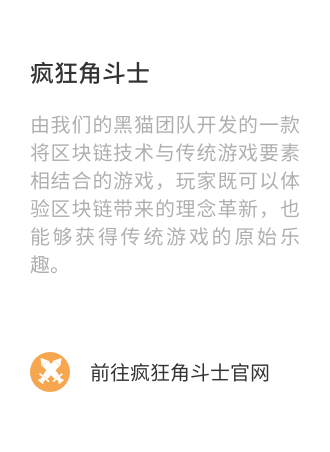
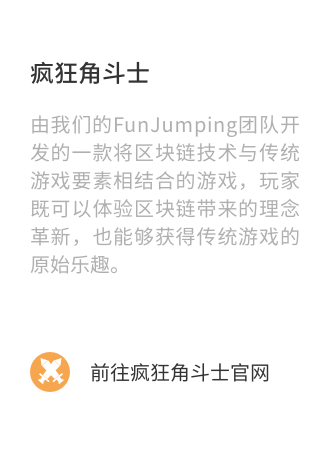
update funjumping team

Changed region(s): [[0.0909, 0.2478, 0.9091, 0.6195]]

diff --git a/index.html b/index.html
@@ -238,10 +238,10 @@
                     </div>
                     <div class="project-list">
                         <div class="project-title">
-                            <strong>黑猫游戏</strong>
+                            <strong>BlaCat</strong>
                         </div>
                         <div class="project-des">
-                            <span>我们的游戏团队，主要作品是疯狂角斗士。</span>
+                            <span>我们FunJumping团队开发的NEO游戏分发平台，该平台具备两大特点：1）GameLab功能，可孵化优秀的NEO游戏项目；2）ZoroChain技术，该技术为游戏提供高速测链。</span>
                         </div>
                         <div class="noa-img">
                             <img src="./img/cat-no.png" class="display-no" alt="">
@@ -260,7 +260,7 @@
                             <strong>疯狂角斗士</strong>
                         </div>
                         <div class="project-des">
-                            <span>由我们的黑猫团队开发的一款将区块链技术与传统游戏要素相结合的游戏，玩家既可以体验区块链带来的理念革新，也能够获得传统游戏的原始乐趣。</span>
+                            <span>由我们的FunJumping团队开发的一款将区块链技术与传统游戏要素相结合的游戏，玩家既可以体验区块链带来的理念革新，也能够获得传统游戏的原始乐趣。</span>
                         </div>
                         <div class="project-link">
                             <a href="http://cryptogladiator.io" target="_blank">
@@ -523,7 +523,7 @@
                     </div>
                 </div>
                 <div class="title">
-                    <strong>黑猫游戏团队</strong>
+                    <strong>FunJumping团队</strong>
                 </div>
                 <div class="team-warp">
                     <div class="team-info">
@@ -548,7 +548,7 @@
                             <img src="./img/catteam02.png" alt="">
                         </div>
                         <div class="team-des">
-                            <strong class="people-name">肖肖</strong>
+                            <strong class="people-name">萧肖</strong>
                             <div class="people-des">FunJumping 联合创始人</div>
                             <div class="people-link">
                                 <a href="https://www.linkedin.com/in/%E8%82%96-%E8%90%A7-5b9227166/" target="_blank">
@@ -628,7 +628,7 @@
                         </div>
                         <div class="team-des">
                             <strong class="people-name">王礼刚</strong>
-                            <div class="people-des">黑猫产品经理</div>
+                            <div class="people-des">BlaCat产品经理</div>
                             <div class="people-link">
                                 <a href="www.linkedin.com/in/ligang-wang96054b168" target="_blank">
                                     <span class="link-linkin"></span>

diff --git a/index-En.html b/index-En.html
@@ -238,10 +238,10 @@
                     </div>
                     <div class="project-list">
                         <div class="project-title">
-                            <strong>FunJumping Team</strong>
+                            <strong>BlaCat</strong>
                         </div>
                         <div class="project-des">
-                            <span>Our game team, the main work is Crypto Gladiator. </span>
+                            <span>This NEO game distribution platform developed by our FunJumping team has: 1) GameLab, which incubates excellent NEO game projects; 2) ZoroChain, which provides high-speed side chain for games.</span>
                         </div>
                         <div class="noa-img">
                             <img src="./img/cat-no.png" class="display-no" alt="">
@@ -260,7 +260,7 @@
                             <strong>Crypto Gladiator</strong>
                         </div>
                         <div class="project-des">
-                            <span>A game developed by our Black Cat team that combines blockchain technology with traditional game elements which allows gamers to experience both the innovations that the blockchain brings and the original fun of traditional games.</span>
+                            <span>A game developed by our FumJumping team that combines blockchain technology with traditional game elements which allows gamers to experience both the innovations that the blockchain brings and the original fun of traditional games.</span>
                         </div>
                         <div class="project-link">
                             <a href="http://cryptogladiator.io/en/index.html" target="_blank">
@@ -628,7 +628,7 @@
                         </div>
                         <div class="team-des">
                             <strong class="people-name">Wang Ligang</strong>
-                            <div class="people-des">Product Manager</div>
+                            <div class="people-des">BlaCat Product Manager</div>
                             <div class="people-link">
                                 <a href="www.linkedin.com/in/ligang-wang96054b168" target="_blank">
                                     <span class="link-linkin"></span>
